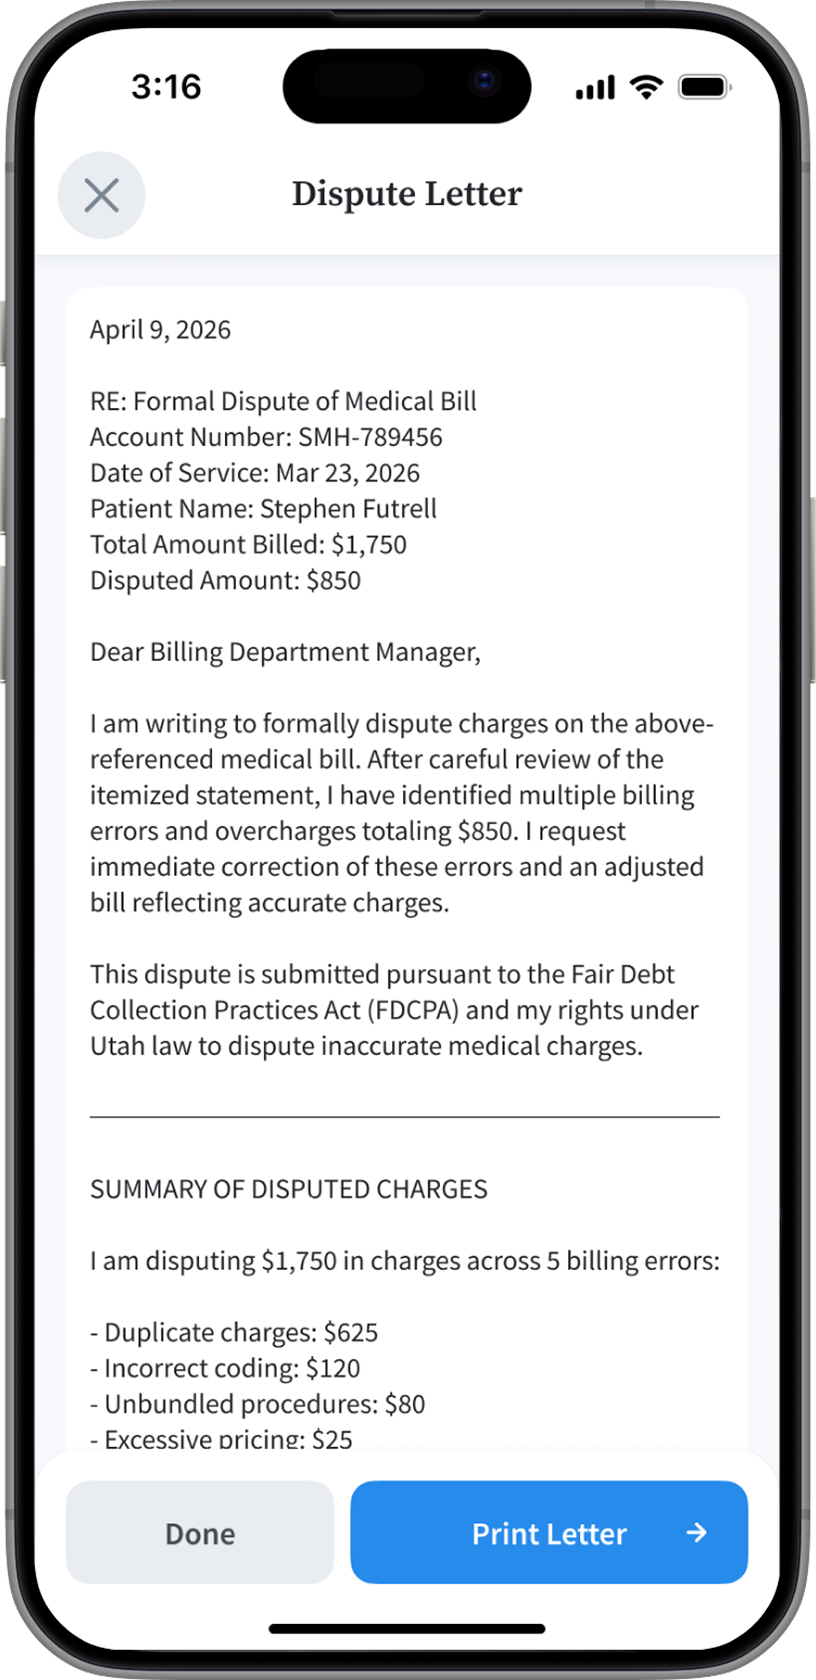
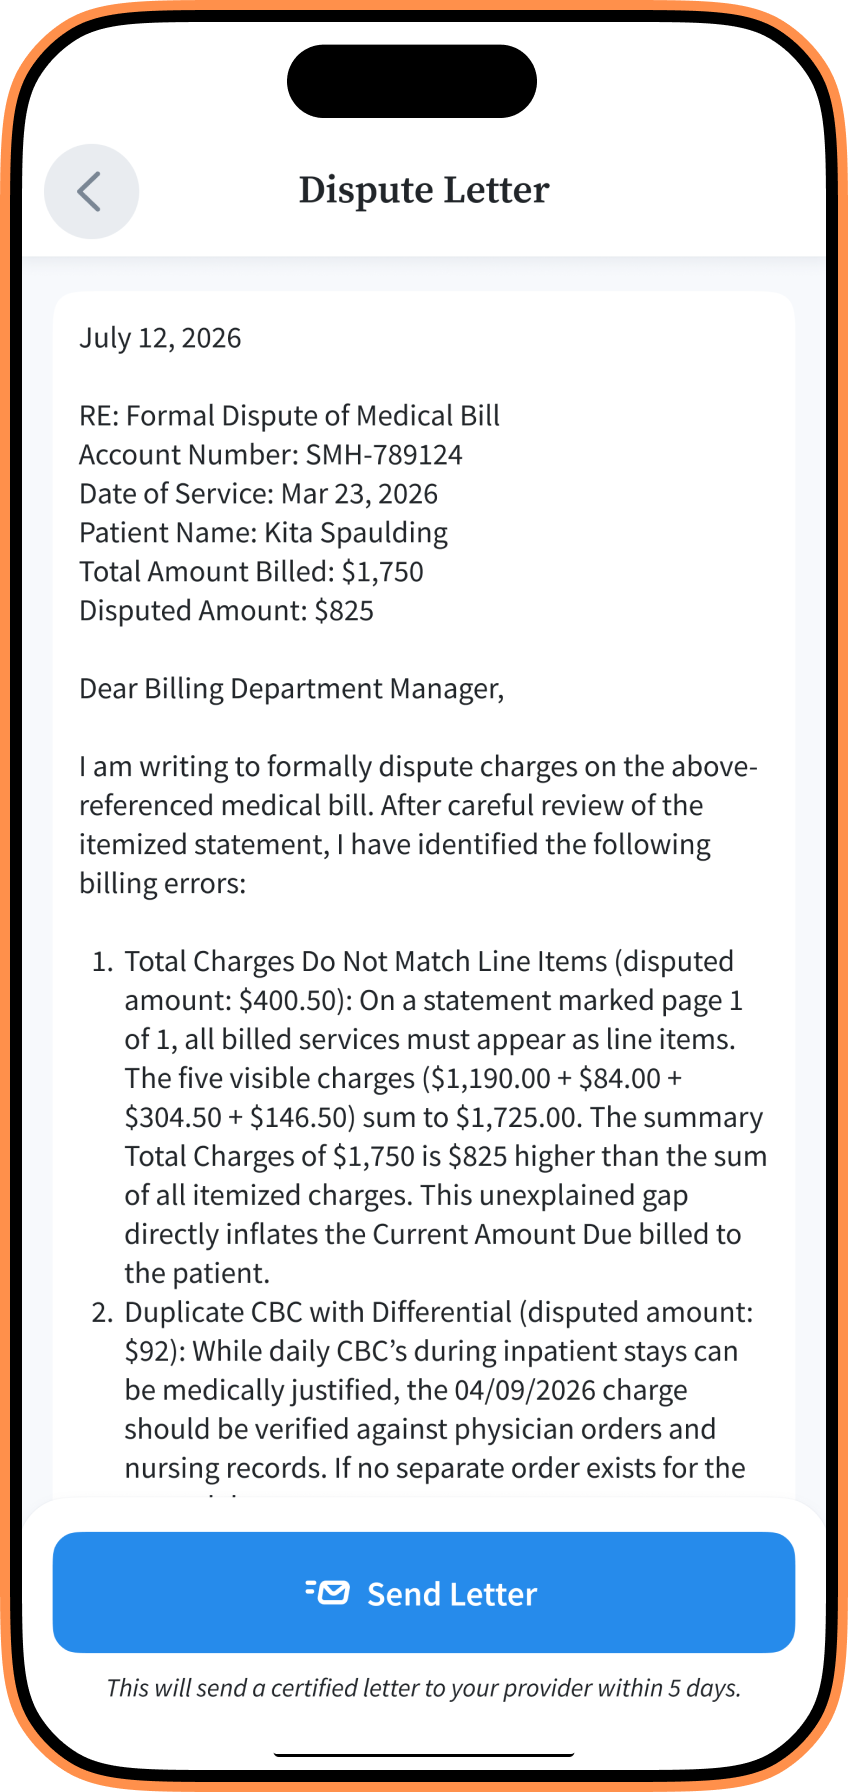
Update phone screenshots and resize to 424×896
- Replace all three app screenshots with new images
- Update img width/height attributes from 320×640 to 424×896
- Update .phone max-width CSS to 424px across all breakpoints
- Rename "Snap a photo" tab to "Add a photo"

Changed region(s): [[0.0, 0.0, 1.0, 1.0], [0.0919, 0.0929, 0.1532, 0.1238]]

diff --git a/index.html b/index.html
@@ -423,7 +423,7 @@
         position: relative;
         z-index: 1;
         width: 100%;
-        max-width: 320px;
+        max-width: 424px;
       }
       .phone img {
         width: 100%;
@@ -452,7 +452,7 @@
           padding: 64px 0 96px;
         }
         .phone {
-          max-width: 340px;
+          max-width: 424px;
         }
         .phone-tag {
           left: -10px;
@@ -819,7 +819,7 @@
           min-height: 460px;
         }
         .panel-phone .phone {
-          max-width: 320px;
+          max-width: 424px;
         }
       }
 
@@ -1502,7 +1502,7 @@
               data-tab="1"
             >
               <span class="tab-num">STEP 01</span>
-              <span class="tab-title" style="display: block">Snap a photo</span>
+              <span class="tab-title" style="display: block">Add a photo</span>
             </button>
             <button
               class="tab"
@@ -1559,8 +1559,8 @@
                 <img
                   src="assets/phone1.png"
                   alt="MedAdvocate scan screen with options to take a photo, choose from photo library, or pick a file."
-                  width="320"
-                  height="640"
+                  width="424"
+                  height="896"
                   loading="lazy"
                 />
               </div>
@@ -1593,8 +1593,8 @@
                 <img
                   src="assets/phone2.png"
                   alt="MedAdvocate analysis results showing 5 issues with high win rates and a duplicate charge of $850."
-                  width="320"
-                  height="640"
+                  width="424"
+                  height="896"
                   loading="lazy"
                 />
               </div>
@@ -1627,8 +1627,8 @@
                 <img
                   src="assets/phone3.png"
                   alt="MedAdvocate-generated dispute letter ready to print, fax, or email."
-                  width="320"
-                  height="640"
+                  width="424"
+                  height="896"
                   loading="lazy"
                 />
               </div>
